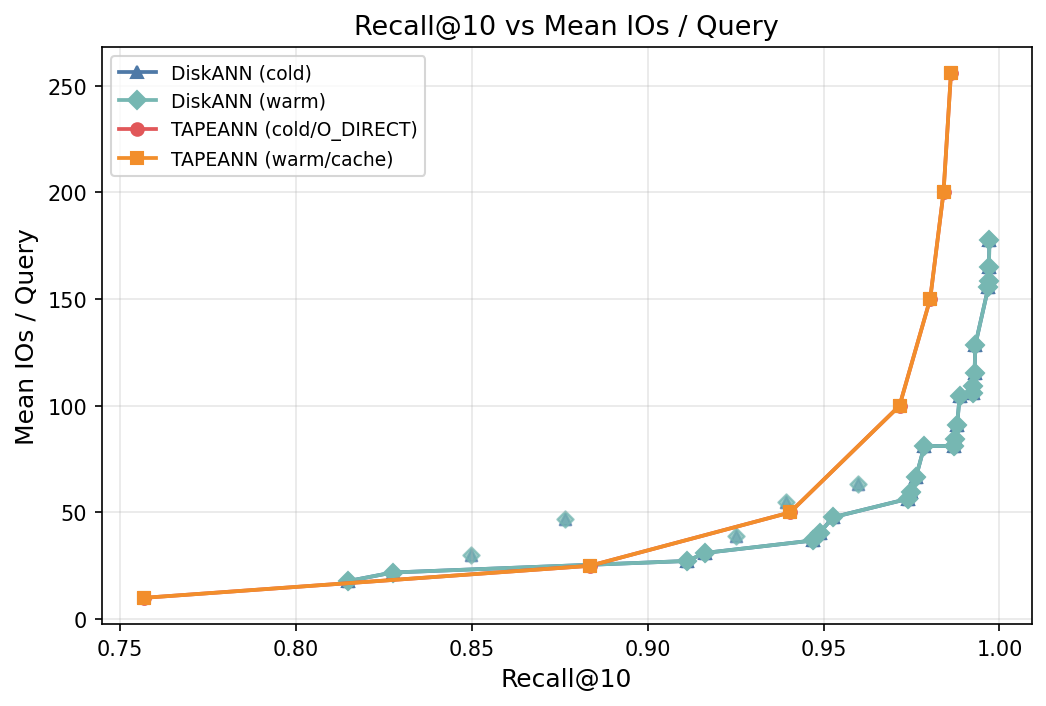
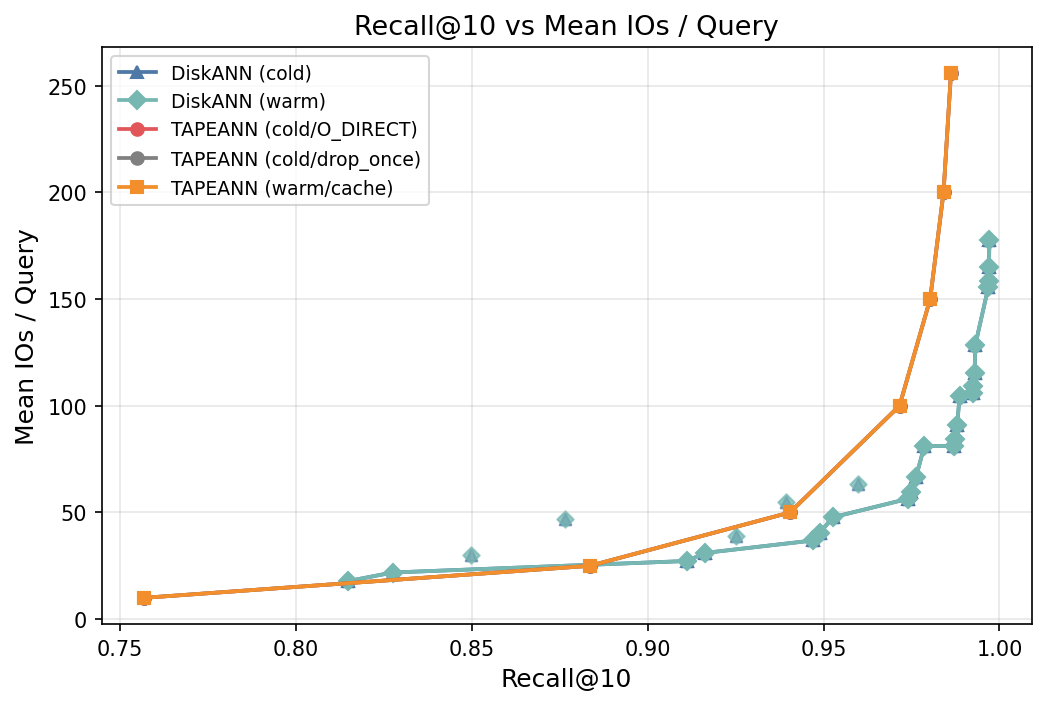
he

Changed region(s): [[0.0918, 0.0935, 0.4283, 0.2805]]

diff --git a/bench/analyze.py b/bench/analyze.py
@@ -31,7 +31,11 @@ def load_tape():
     df["recall"] = df["recall10"] / 100.0
     df["latency_ms"] = df["mean_ms"]
     df["qps"] = 10_000 / (df["mean_ms"] / 1000 * 10_000)   # 10k queries / total_s
-    df["label"] = "TAPEANN " + df["mode"].map({"direct": "(cold/O_DIRECT)", "cache": "(warm/cache)"})
+    df["label"] = "TAPEANN " + df["mode"].map({
+        "direct":    "(cold/O_DIRECT)",
+        "drop_once": "(cold/drop_once)",
+        "cache":     "(warm/cache)",
+    })
     return df
 
 
@@ -163,13 +167,17 @@ def make_summary(tape_df, diskann_df):
 
     lines = ["# TAPEANN vs DiskANN — SIFT10M Benchmark Summary\n"]
 
-    for mode_pair in [("direct", "cold"), ("cache", "warm")]:
+    # drop_once matches DiskANN "cold" (both drop page cache once then measure).
+    # "direct" uses O_DIRECT on every query — stricter but a different methodology.
+    for mode_pair in [("drop_once", "cold"), ("cache", "warm")]:
         tape_mode, diskann_mode = mode_pair
         lines.append(f"\n## Cache mode: TAPEANN={tape_mode}  DiskANN={diskann_mode}\n")
 
         t = tape_df[tape_df["mode"] == tape_mode].copy()
-        d = diskann_df[diskann_df["mode"] == diskann_mode].copy()
+        # Average across trials (recall is deterministic; latency/qps are averaged)
+        t = t.groupby("probes", as_index=False)[["recall", "latency_ms", "qps"]].mean()
 
+        d = diskann_df[diskann_df["mode"] == diskann_mode].copy()
         # For DiskANN pick best (lowest latency) per recall point
         d = d.sort_values("latency_ms").drop_duplicates(subset=["recall"], keep="first")
 
@@ -188,8 +196,10 @@ def make_summary(tape_df, diskann_df):
 
     - TAPEANN is single-threaded. DiskANN run with `-T 1` for apples-to-apples.
       DiskANN's real multi-thread QPS is significantly higher.
-    - Cold runs: `sync && echo 3 > /proc/sys/vm/drop_caches` before each run.
-      TAPEANN uses `O_DIRECT`; DiskANN (Rust) uses io_uring — both bypass warm cache.
+    - Cold runs: `sync && echo 3 > /proc/sys/vm/drop_caches` before each run, then
+      queries are issued (page cache warms during the run). Both TAPEANN drop_once and
+      DiskANN cold use this methodology. TAPEANN direct (O_DIRECT every query) is shown
+      in plots for reference but is a stricter / different cold model.
     - DiskANN recall ceiling may be <1.0 due to PQ compression at the chosen `-B` budget.
     - Ground truth computed via FAISS `IndexFlatL2` on float32 base vectors.
     - SIFT10M = first 10M vectors of BIGANN (`bigann_base.bvecs`).

diff --git a/bench/results/summary.md b/bench/results/summary.md
@@ -1,15 +1,15 @@
 # TAPEANN vs DiskANN — SIFT10M Benchmark Summary
 
 
-## Cache mode: TAPEANN=direct  DiskANN=cold
+## Cache mode: TAPEANN=drop_once  DiskANN=cold
 
 ### TAPEANN
 
-| recall_target   | actual_recall   | latency_ms   | qps                | probes   |
-|:----------------|:----------------|:-------------|:-------------------|:---------|
-| 90%             | 94.04%          | 2.4896       | 401.6709511568124  | 50       |
-| 95%             | 97.16%          | 4.3766       | 228.48786729424668 | 100      |
-| 99%             | nan             | N/A          | N/A                | N/A      |
+| recall_target   | actual_recall   | latency_ms         | qps                | probes   |
+|:----------------|:----------------|:-------------------|:-------------------|:---------|
+| 90%             | 94.04%          | 1.4792333333333332 | 676.0337136853801  | 50.0     |
+| 95%             | 97.16%          | 3.0719             | 325.62590272572817 | 100.0    |
+| 99%             | nan             | N/A                | N/A                | N/A      |
 
 
 ### DiskANN
@@ -26,11 +26,11 @@
 
 ### TAPEANN
 
-| recall_target   | actual_recall   | latency_ms   | qps               | probes   |
-|:----------------|:----------------|:-------------|:------------------|:---------|
-| 90%             | 94.04%          | 1.4642       | 682.9668078131403 | 50       |
-| 95%             | 97.16%          | 3.0358       | 329.4024639304302 | 100      |
-| 99%             | nan             | N/A          | N/A               | N/A      |
+| recall_target   | actual_recall   | latency_ms   | qps                | probes   |
+|:----------------|:----------------|:-------------|:-------------------|:---------|
+| 90%             | 94.04%          | 1.4546       | 687.489250059314   | 50.0     |
+| 95%             | 97.16%          | 3.0191       | 331.26205005917404 | 100.0    |
+| 99%             | nan             | N/A          | N/A                | N/A      |
 
 
 ### DiskANN
@@ -47,8 +47,10 @@
 
 - TAPEANN is single-threaded. DiskANN run with `-T 1` for apples-to-apples.
   DiskANN's real multi-thread QPS is significantly higher.
-- Cold runs: `sync && echo 3 > /proc/sys/vm/drop_caches` before each run.
-  TAPEANN uses `O_DIRECT`; DiskANN (Rust) uses io_uring — both bypass warm cache.
+- Cold runs: `sync && echo 3 > /proc/sys/vm/drop_caches` before each run, then
+  queries are issued (page cache warms during the run). Both TAPEANN drop_once and
+  DiskANN cold use this methodology. TAPEANN direct (O_DIRECT every query) is shown
+  in plots for reference but is a stricter / different cold model.
 - DiskANN recall ceiling may be <1.0 due to PQ compression at the chosen `-B` budget.
 - Ground truth computed via FAISS `IndexFlatL2` on float32 base vectors.
 - SIFT10M = first 10M vectors of BIGANN (`bigann_base.bvecs`).
